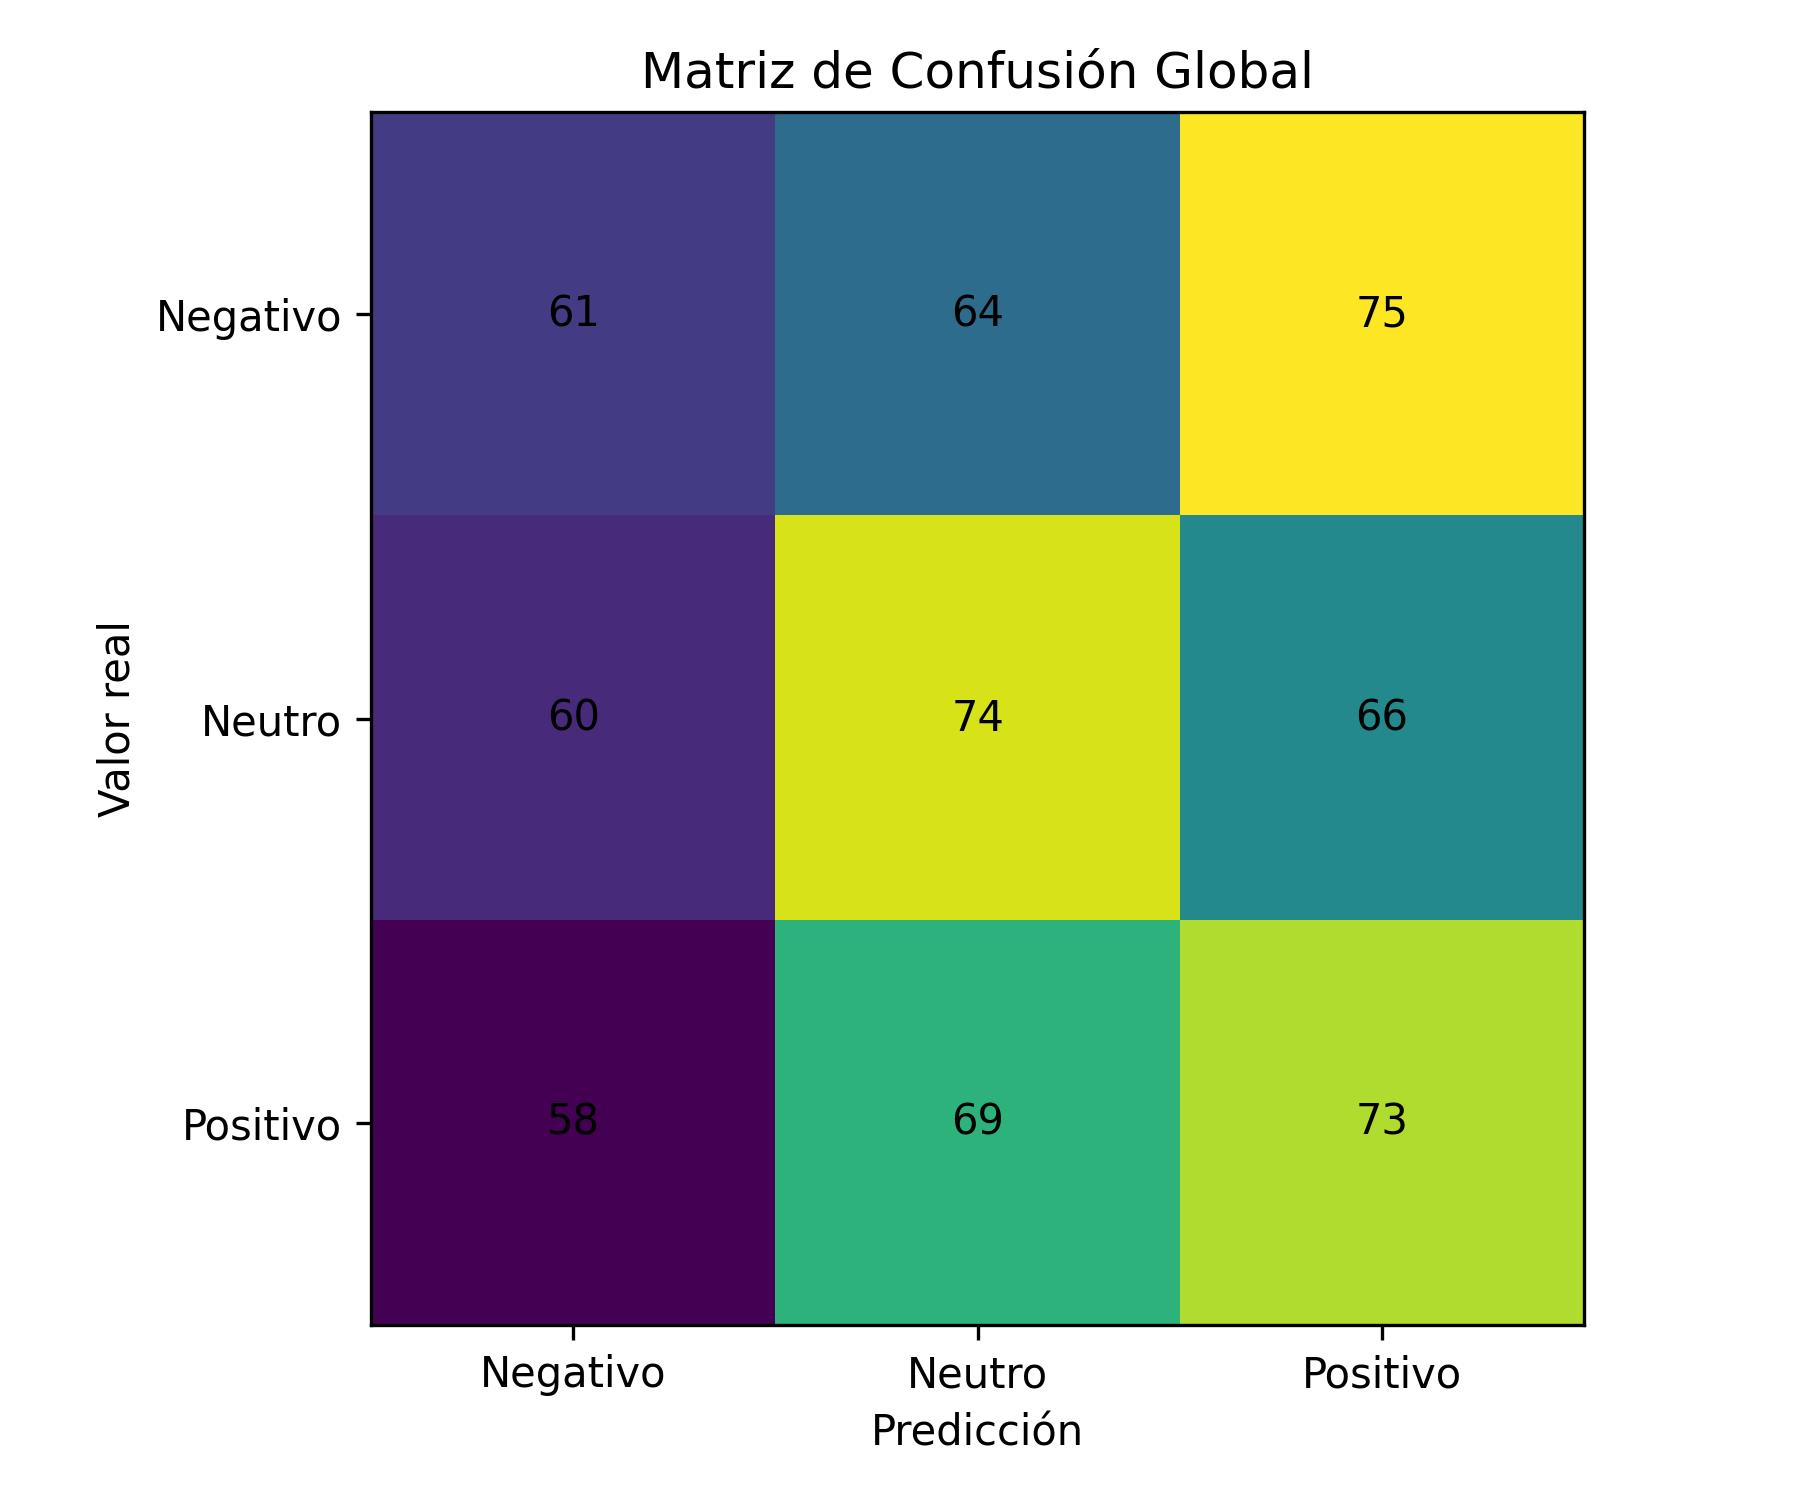
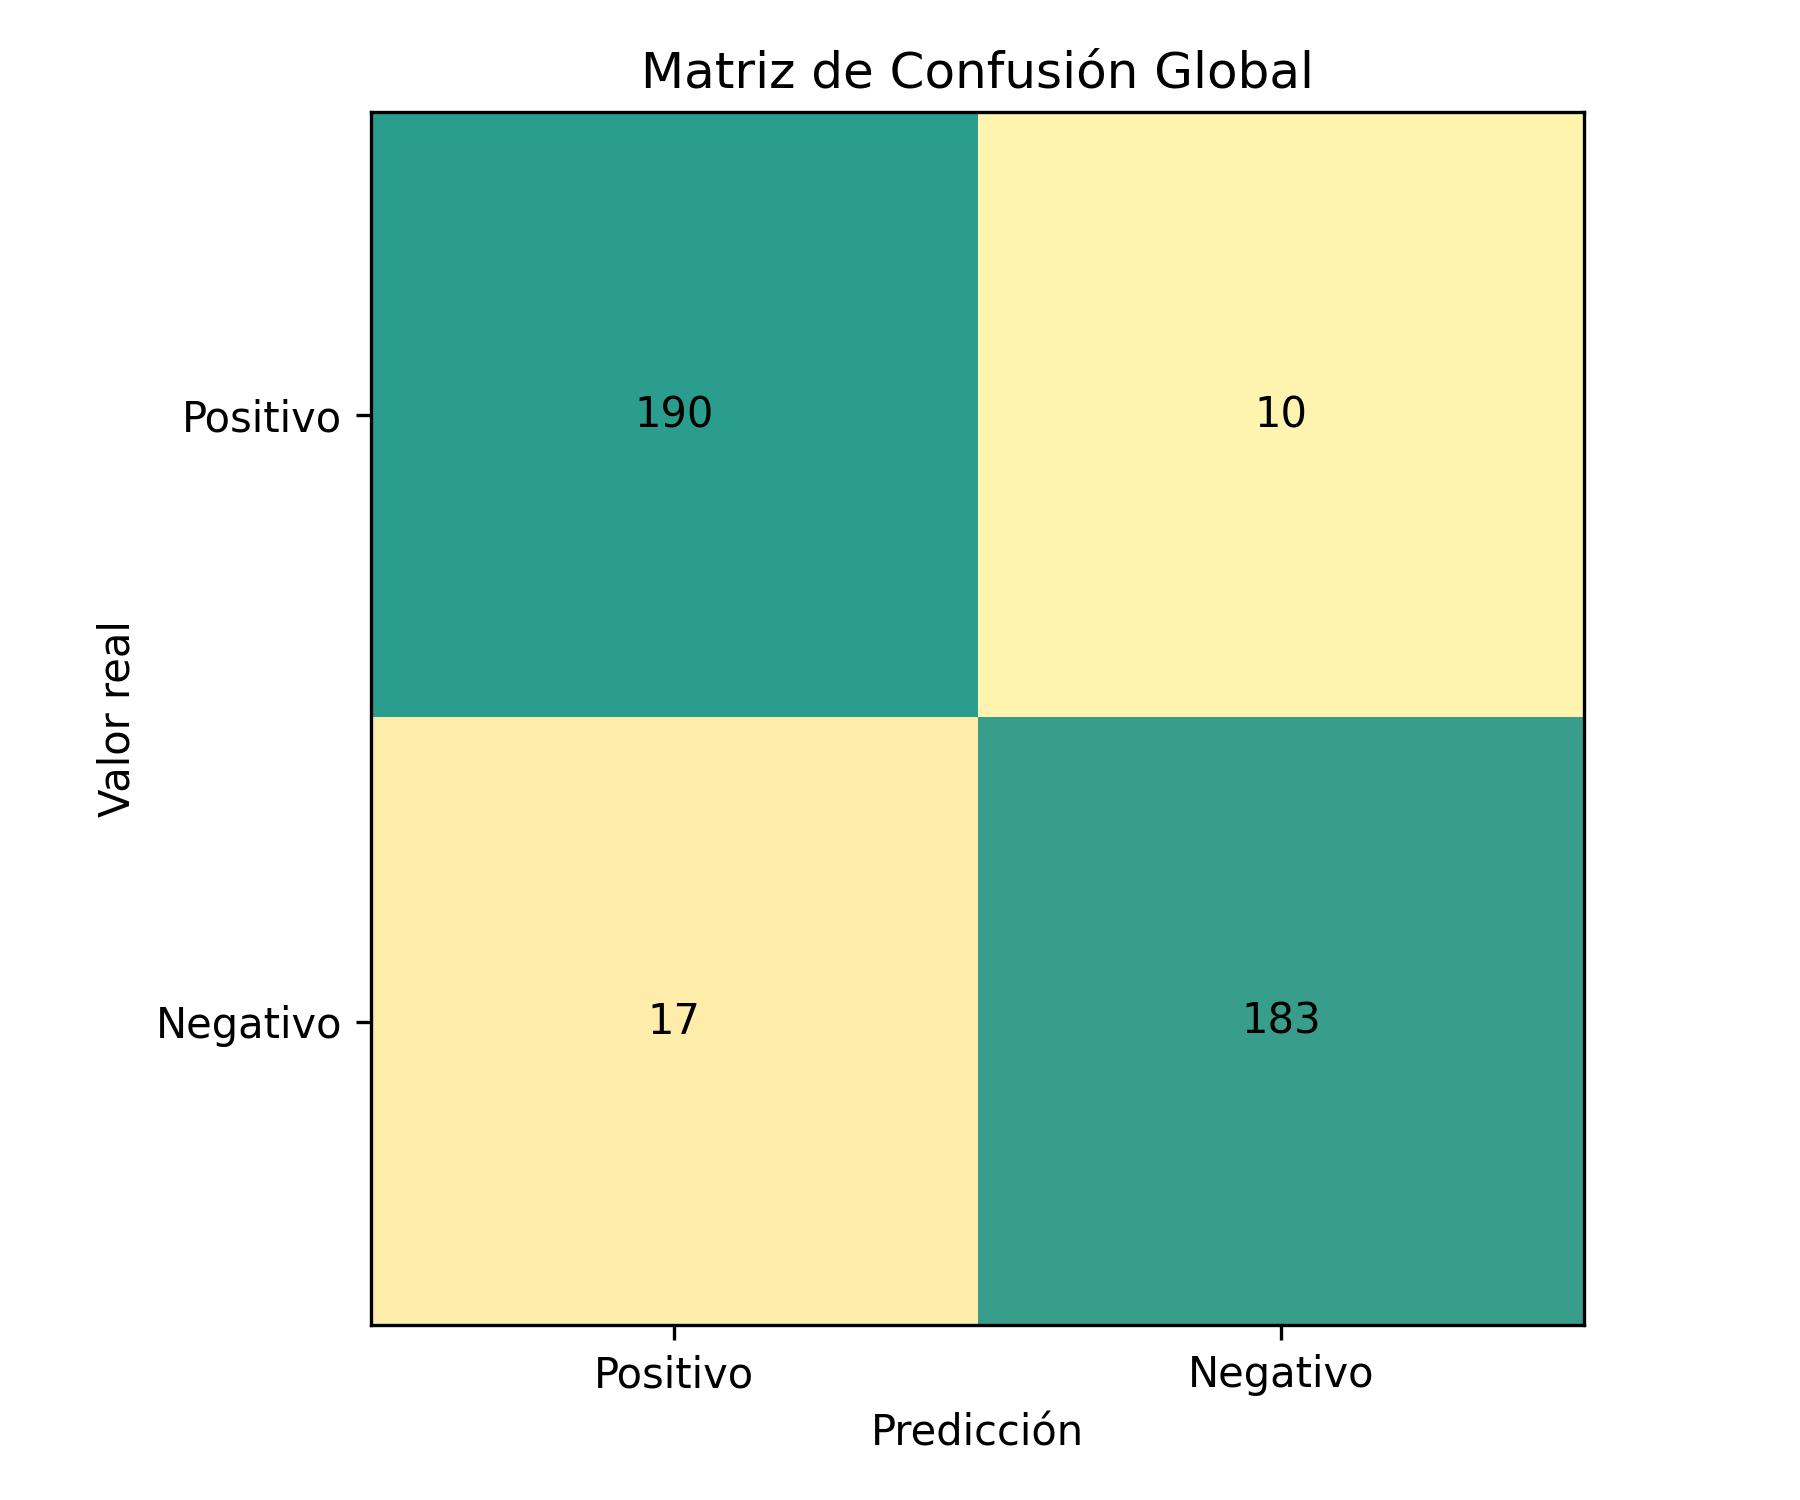
Actualizacion para pruebas rapidas del modelo

diff --git a/testing.py b/testing.py
@@ -5,6 +5,14 @@ import matplotlib.pyplot as plt
 from sklearn.metrics import confusion_matrix
 import numpy as np
 from sklearn.metrics import precision_recall_fscore_support
+from matplotlib.colors import LinearSegmentedColormap
+
+from sentiment_model import SentimentModel
+
+MODEL_PATH = "../train/output/modelo_final.pkl"
+VECT_PATH = "../train/output/vectorizador_final.pkl"
+
+model = SentimentModel(MODEL_PATH, VECT_PATH)
 
 #import openpyxl
 
@@ -25,7 +33,10 @@ def procesar_comentario(texto):
     Aquí va tu lógica real:
     análisis, llamada a API, modelo, etc.
     """
-    return random.choice([-1, 0, 1])
+    #return random.choice([-1, 0, 1])
+
+    pred = model.predict(texto)
+    return pred
 
 # Recorrer cada hoja
 for nombre_hoja, df in hojas.items():
@@ -33,6 +44,7 @@ for nombre_hoja, df in hojas.items():
     # columna 0 -> id
     # columna 1 -> comentario
     # columna 2 -> sentimiento
+    print(f"procesando hoja: {nombre_hoja} ")
 
     # Procesar comentarios
     df["inferencia"] = df.iloc[:, 1].apply(procesar_comentario)
@@ -91,8 +103,8 @@ def generar_matriz_confusion(
     hojas_procesadas,
     col_real="Codigo",
     col_pred="inferencia",
-    etiquetas=(-1, 0, 1),
-    nombres_etiquetas=("Negativo", "Neutro", "Positivo"),
+    etiquetas=(1, 0),
+    nombres_etiquetas=("Positivo","Negativo"),
     archivo_salida="./output/matriz_confusion.jpg"
 ):
     """
@@ -117,9 +129,17 @@ def generar_matriz_confusion(
         labels=etiquetas
     )
 
+    # Normalizar por fila para mejor interpretación
+    cm_norm = cm.astype(float) / cm.sum(axis=1, keepdims=True)
+    
+    # Crear colormap personalizado:
+    # Verde para diagonal, amarillo/naranjo para errores
+    colors = ["#FFF3B0", "#F4A261", "#2A9D8F"]
+    cmap = LinearSegmentedColormap.from_list("custom_cm", colors)
+
     # Crear figura
     plt.figure(figsize=(6, 5))
-    plt.imshow(cm)
+    plt.imshow(cm_norm, cmap=cmap)
     plt.title("Matriz de Confusión Global")
     plt.xlabel("Predicción")
     plt.ylabel("Valor real")
@@ -137,6 +157,8 @@ def generar_matriz_confusion(
     plt.savefig(archivo_salida, dpi=300)
     plt.close()
 
+print("\n\n generar matriz de confusion")
+
 generar_matriz_confusion(
     hojas_procesadas,
     archivo_salida="./output/matriz_confusion_sentimientos.jpg"
@@ -149,8 +171,8 @@ def calcular_metricas_por_clase(
     hojas_procesadas,
     col_real="Codigo",
     col_pred="inferencia",
-    etiquetas=(-1, 0, 1),
-    nombres_etiquetas=("Negativo", "Neutro", "Positivo")
+    etiquetas=(1, 0),
+    nombres_etiquetas=("Positivo","Negativo"),
 ):
     """
     Calcula Precision, Recall y F1-score por clase.
@@ -179,6 +201,8 @@ def calcular_metricas_por_clase(
     })
 
     return metricas_df
+
+print("\n\n calcular metrica por clases")
 
 metricas = calcular_metricas_por_clase(hojas_procesadas)
 print(metricas)
@@ -226,3 +250,4 @@ for _, fila in metricas.iterrows():
         nombre_clase=fila["Clase"]
     )
     print("-" * 60)
+
